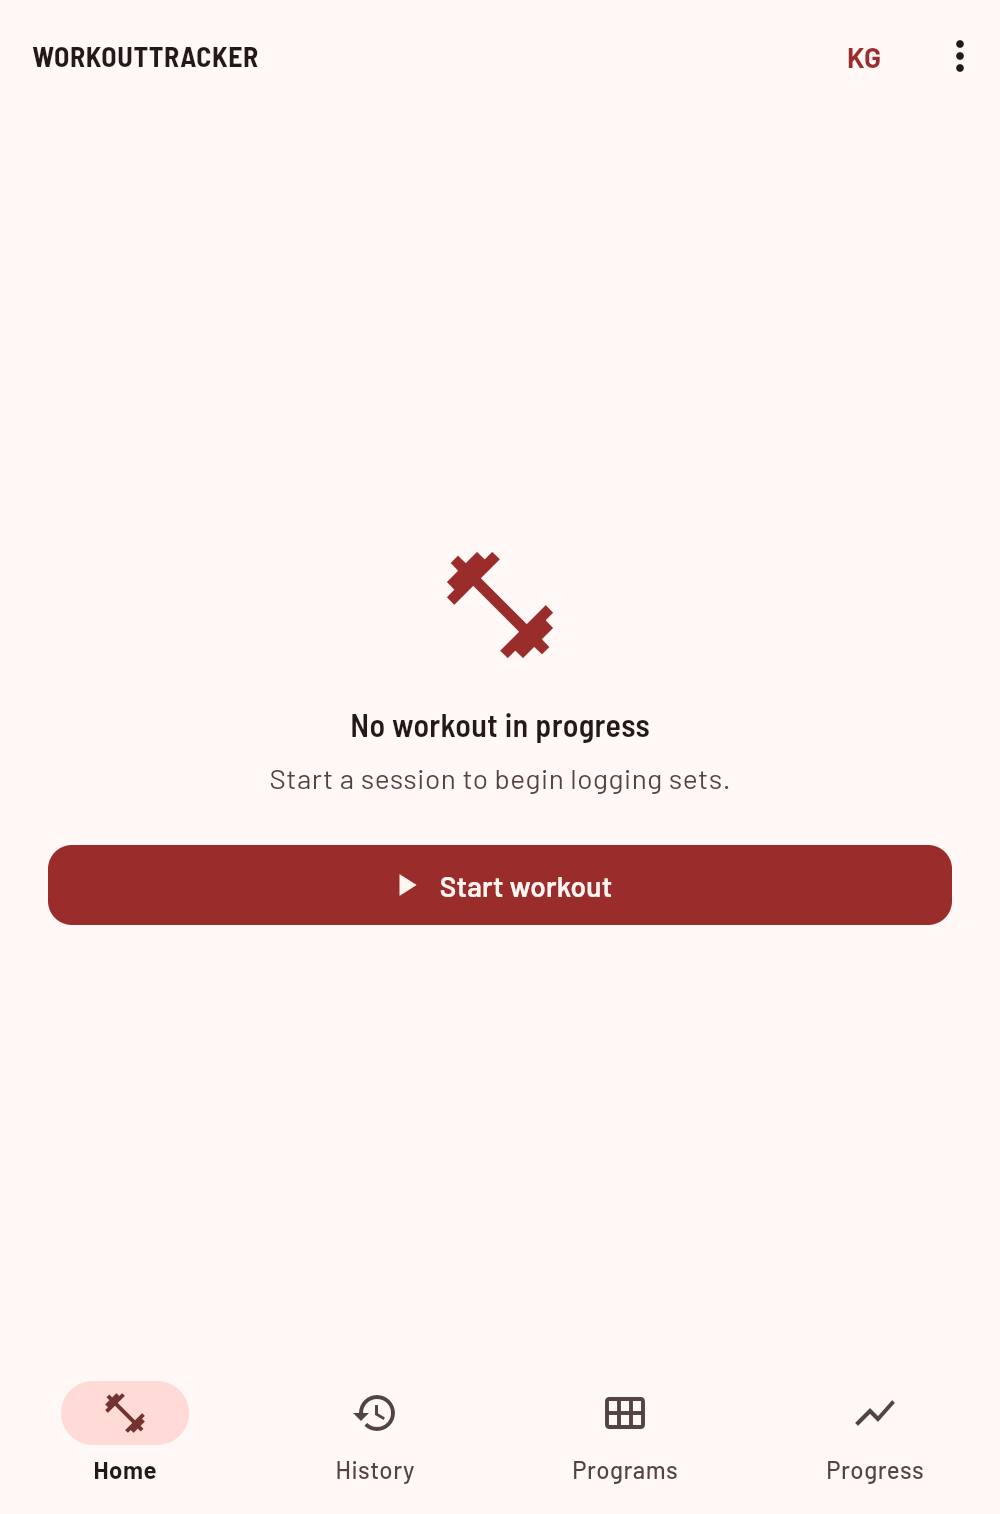
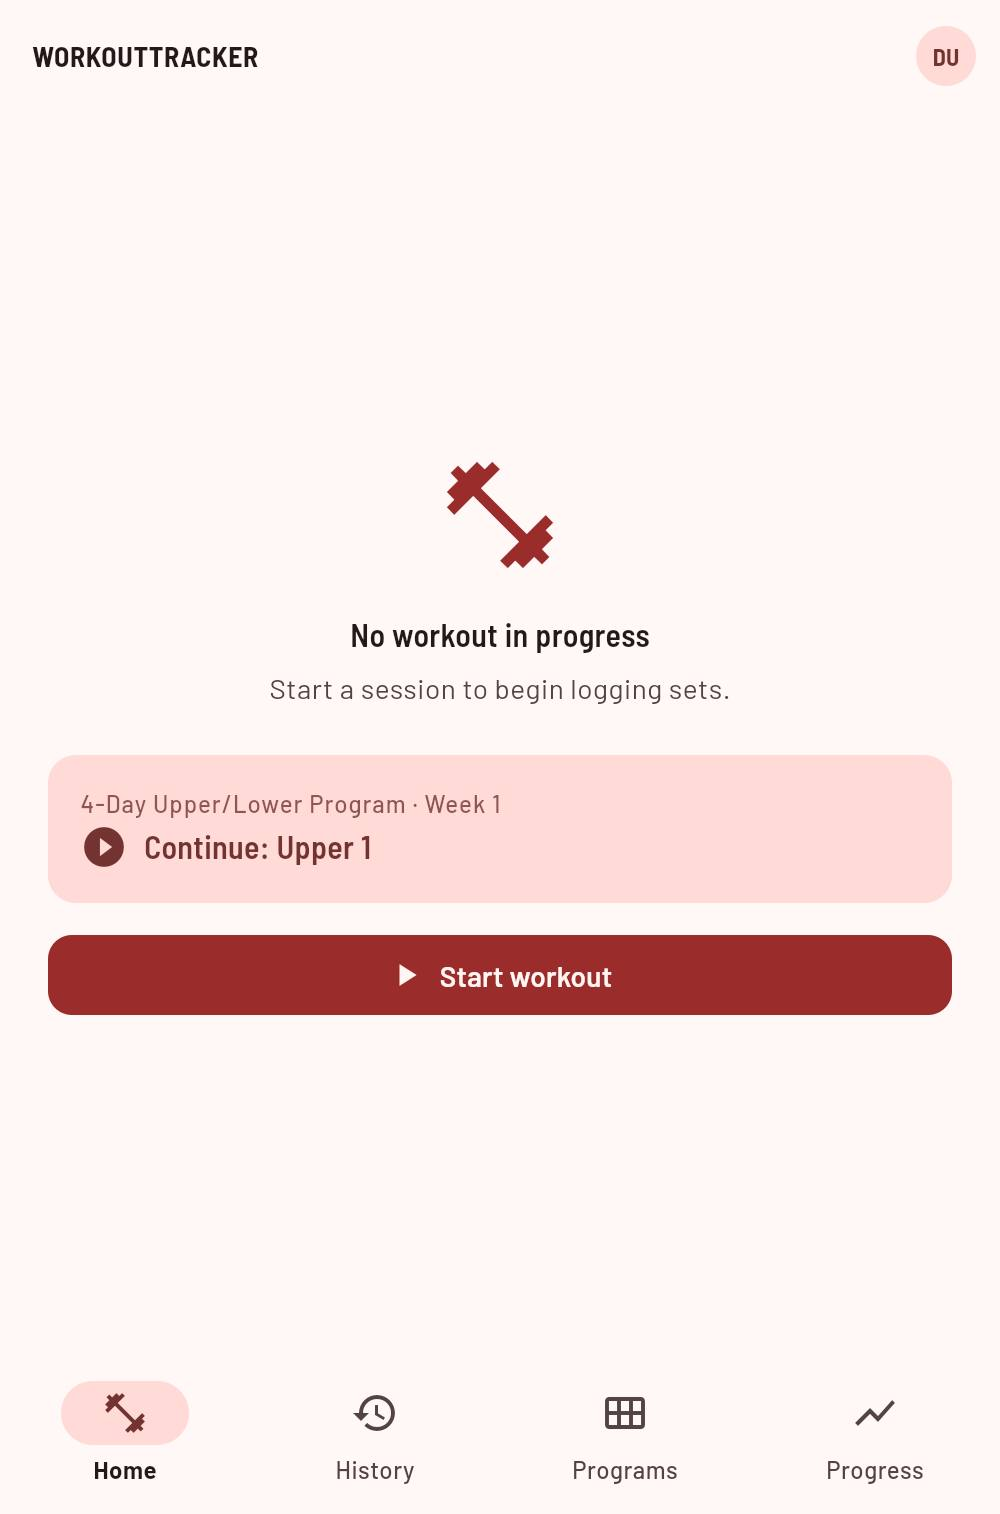
Update user guide

Changed region(s): [[0.031, 0.2794, 0.961, 0.683], [0.837, 0.0, 0.992, 0.0621], [0.279, 0.4346, 0.31, 0.4657]]

diff --git a/docs/USER_GUIDE.md b/docs/USER_GUIDE.md
@@ -29,9 +29,9 @@ Create an account with your email, a password (at least 8 characters), and a dis
   <img src="images/login-dark.png" width="200" alt="Login screen, dark theme">
 </p>
 
-Already have an account? Use **Log in** instead. To sign out at any time, open the **⋮** menu on the Home tab and tap **Log out**.
+Already have an account? Use **Log in** instead. To sign out, tap your **profile avatar** in the Home tab's top bar and choose **Log out**.
 
-**First-run tour**: the first time you log in on a device, a short tour walks through logging workouts, templates and personalized programs, progress tracking, and sharing stats, followed by an optional prompt to fill in your goal/experience/equipment so a program can be generated for you right away. Every step can be skipped — tap **Skip** on any tour slide, or **Skip for now** on the personalization step — and you can always personalize a program later from the sparkle icon on the **Programs** tab. If you're signing in on a new device and your account already has a fitness profile or a program, the app skips the tour entirely and drops you straight into the home screen. You can replay the tour any time from **View app tour** in the Home tab's **⋮** menu.
+**First-run tour**: the first time you sign up — and the first time you log in on a device that hasn't seen it — a short tour walks through logging workouts, templates and personalized programs, progress tracking, and sharing stats, followed by an optional prompt to fill in your goal/experience/equipment so a program can be generated for you right away. Every step can be skipped — tap **Skip** on any tour slide, or **Skip for now** on the personalization step — and you can always personalize a program later from the sparkle icon on the **Programs** tab. If you're signing in on a device that's already seen the tour and your account already has a fitness profile or a program, the app skips it entirely and drops you straight into the home screen. You can replay the tour any time from **View app tour** behind your profile avatar.
 
 <p>
   <img src="images/onboarding-slide-1.png" width="180" alt="Tour slide 1: Log workouts fast">
@@ -65,7 +65,7 @@ Once a workout is running, the top bar shows a live elapsed-time clock and your 
   <img src="images/resume-bar.png" width="220" alt="Resume-workout bar visible on a non-Home tab">
 </p>
 
-**Finishing up**: tap **Finish workout** at the bottom of the screen. You can add optional notes about how the session went before confirming — these are saved with the workout and visible later in your history. The same dialog has a **Discard** action if you want to throw the session away instead; and if you tap Finish without having logged any sets, the app offers to discard the empty session rather than clutter your history with it.
+**Finishing up**: tap **Finish workout** at the bottom of the screen. The panel that opens is a bottom sheet, not a cramped dialog — a set-count and duration line at the top, an optional notes field (saved with the workout, visible later in history), then **Finish workout** and **Keep going** stacked full-width, with **Discard workout** set apart below a divider so it can't be mis-tapped for the button next to it. If you tap Finish without having logged any sets, the app offers to discard the empty session rather than clutter your history with it.
 
 ## 3. Logging a set
 
@@ -100,7 +100,11 @@ Every logged set beyond a warm-up is checked against your history for four kinds
 
 **Bodyweight exercises**: for anything tagged *bodyweight* (pull-ups, dips, push-ups…), the weight field means *added* load — enter `0` for plain bodyweight, a positive number for weighted, or a negative number for assisted. Since the weight stays at zero, the **most reps** record is what tracks progress here, and the "By exercise" chart defaults to reps for them.
 
-**Plate calculator**: tap the calculator icon in the set sheet to see which plates to load per side of the bar for the weight you've entered — useful mid-set when doing the arithmetic in your head is the last thing you want to do.
+**Plate calculator**: tap the calculator icon in the set sheet and a little barbell diagram shows which plates to load per side for the weight you've entered — drawn to scale and colour-coded by size. Pick your bar with the **20 / 15 / 10 kg** presets (it remembers which you use) or type a custom weight; a line underneath confirms the exact total it loads to, or flags it when standard plates can't hit your target.
+
+<p>
+  <img src="images/plate-calculator.png" width="220" alt="Plate calculator — a barbell diagram of the plates per side">
+</p>
 
 **Repeat last set**: each exercise card in an active workout has a **Repeat last** button — logs another set identical to the one before it (same reps, weight, RPE, and set type) in a single tap, for straight sets across working sets.
 
@@ -217,6 +221,8 @@ Open the set sheet for an exercise you've logged before with an RPE, and a sugge
 | 7.5 – 8.5 | Solid effort — same weight, aim for an extra rep. |
 | > 8.5 | Near failure — weight reduced about 5%. |
 
+The suggested weight always lands on a loadable **2.5 kg / 5 lb** step (and "same weight" hands back exactly what you last lifted), so you're never told to load a number you can't actually make.
+
 No RPE logged yet for that exercise? The sheet just pre-fills your last set with no suggestion attached — log an RPE once and suggestions start from the next time.
 
 When the workout was started from a **program day**, the suggestion instead comes from that program's week-to-week progression rule (see [Chapter 6](#6-personalized-programs)) — labelled "Week N · …" — rather than this RPE table.
@@ -237,13 +243,15 @@ WorkoutTracker doesn't do live workout sharing — instead, you get a shareable 
   <img src="images/share-workout-summary.png" width="220" alt="Workout summary share card preview">
 </p>
 
-Either way, you get a preview first — nothing goes out until you tap **Share** on the preview, which hands the image to your device's normal share sheet so you can post it wherever you like (Instagram, messages, etc.). Both cards render with the same fixed dark red-and-black look regardless of your app theme, so the image looks consistent no matter which theme you're using.
+Either way, you get a preview first. It has **Download image** — a plain download, or your Files app — and **Share…**, which hands the image to your device's share sheet so you can post it wherever you like (Instagram, messages, etc.). Nothing leaves the app until you pick one. Both cards render with the same fixed dark red-and-black look regardless of your app theme, so the image looks consistent no matter which theme you're using.
 
 ## 11. Units & settings
 
-Tap the **KG** / **LB** label in the Home tab's top bar to switch your preferred weight unit. This changes how weight is displayed and entered across the entire app — set logging, history, progress charts, and body weight — in one place. Everything is still stored in kilograms behind the scenes, so switching back and forth never loses precision.
+Everything here lives behind your **profile avatar** in the Home tab's top bar — tap it to open the settings sheet.
 
-**Theme**: open the **⋮** menu on the Home tab and choose **System**, **Light**, or **Dark** — System follows your device's setting, and your choice is remembered.
+**Units**: switch **Kilograms** / **Pounds**. This changes how weight is displayed and entered across the entire app — set logging, history, progress charts, and body weight — in one place. Everything is still stored in kilograms behind the scenes, so switching back and forth never loses precision.
+
+**Appearance**: choose **System**, **Light**, or **Dark** — System follows your device's setting, and your choice is remembered. The theme changes instantly, so you can see it before closing the sheet.
 
 ---
 
